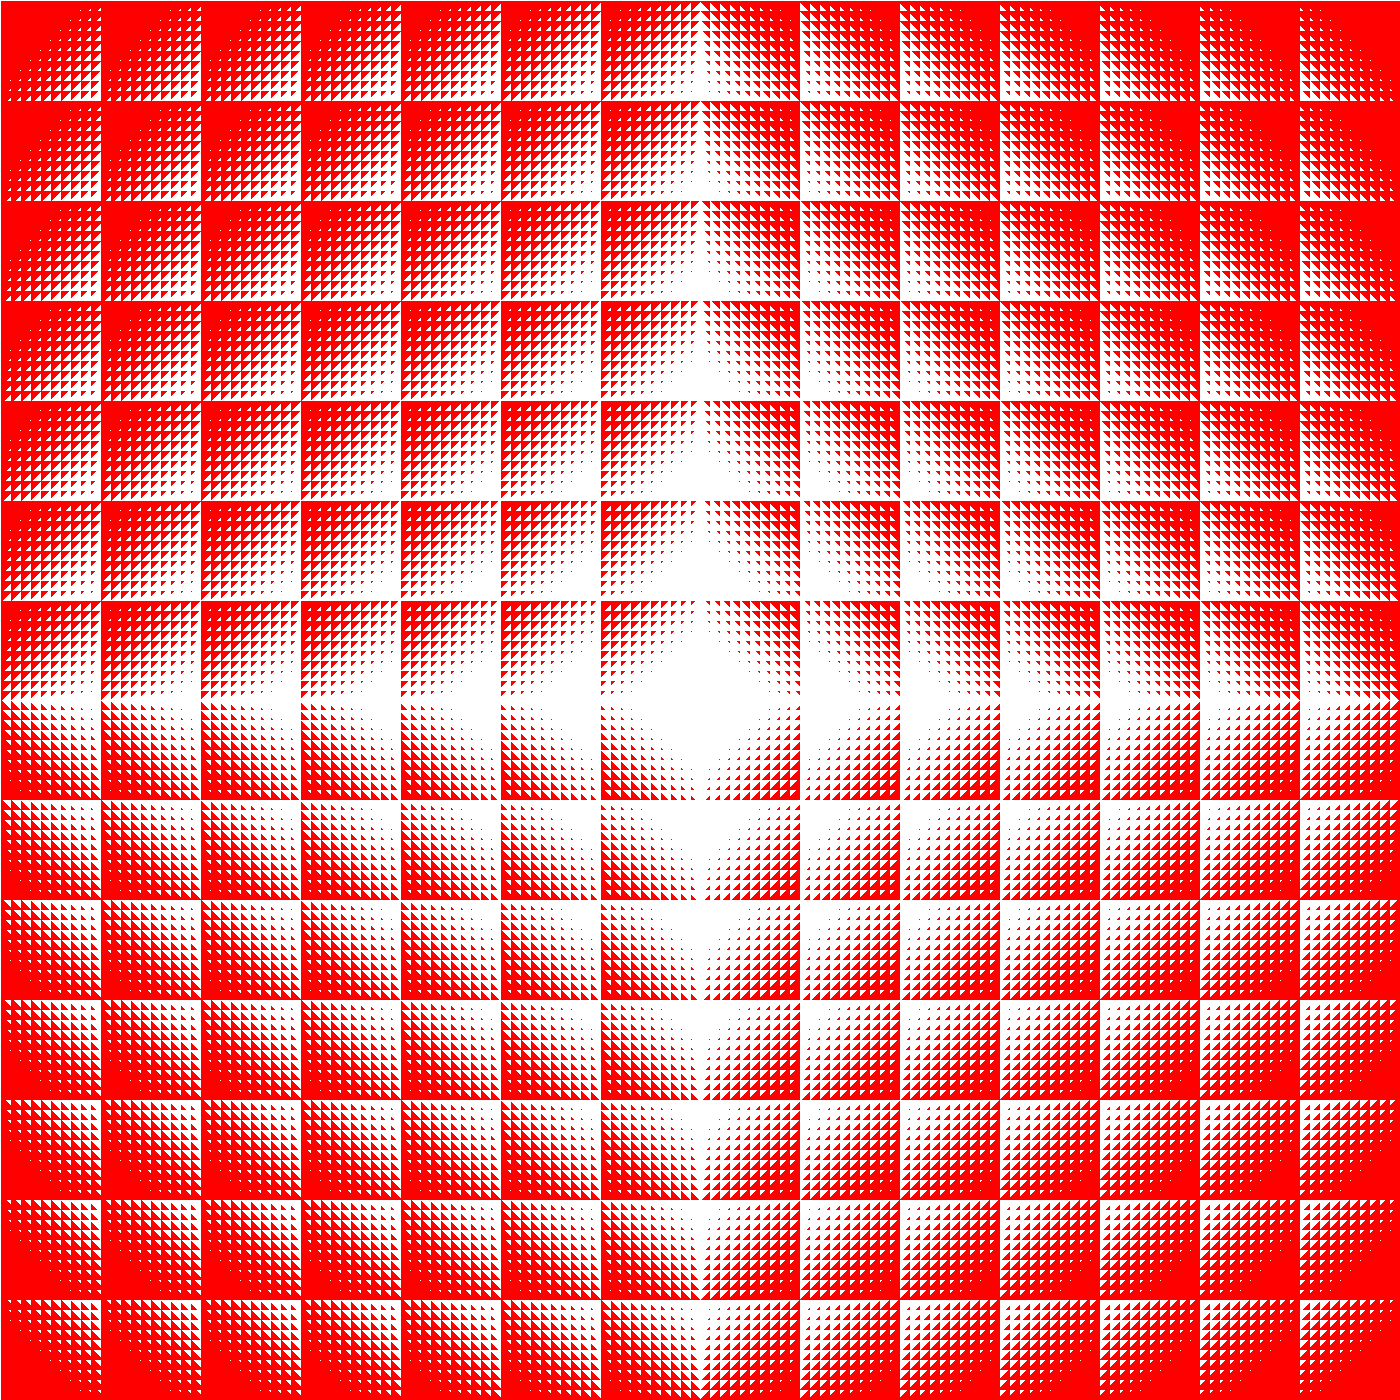
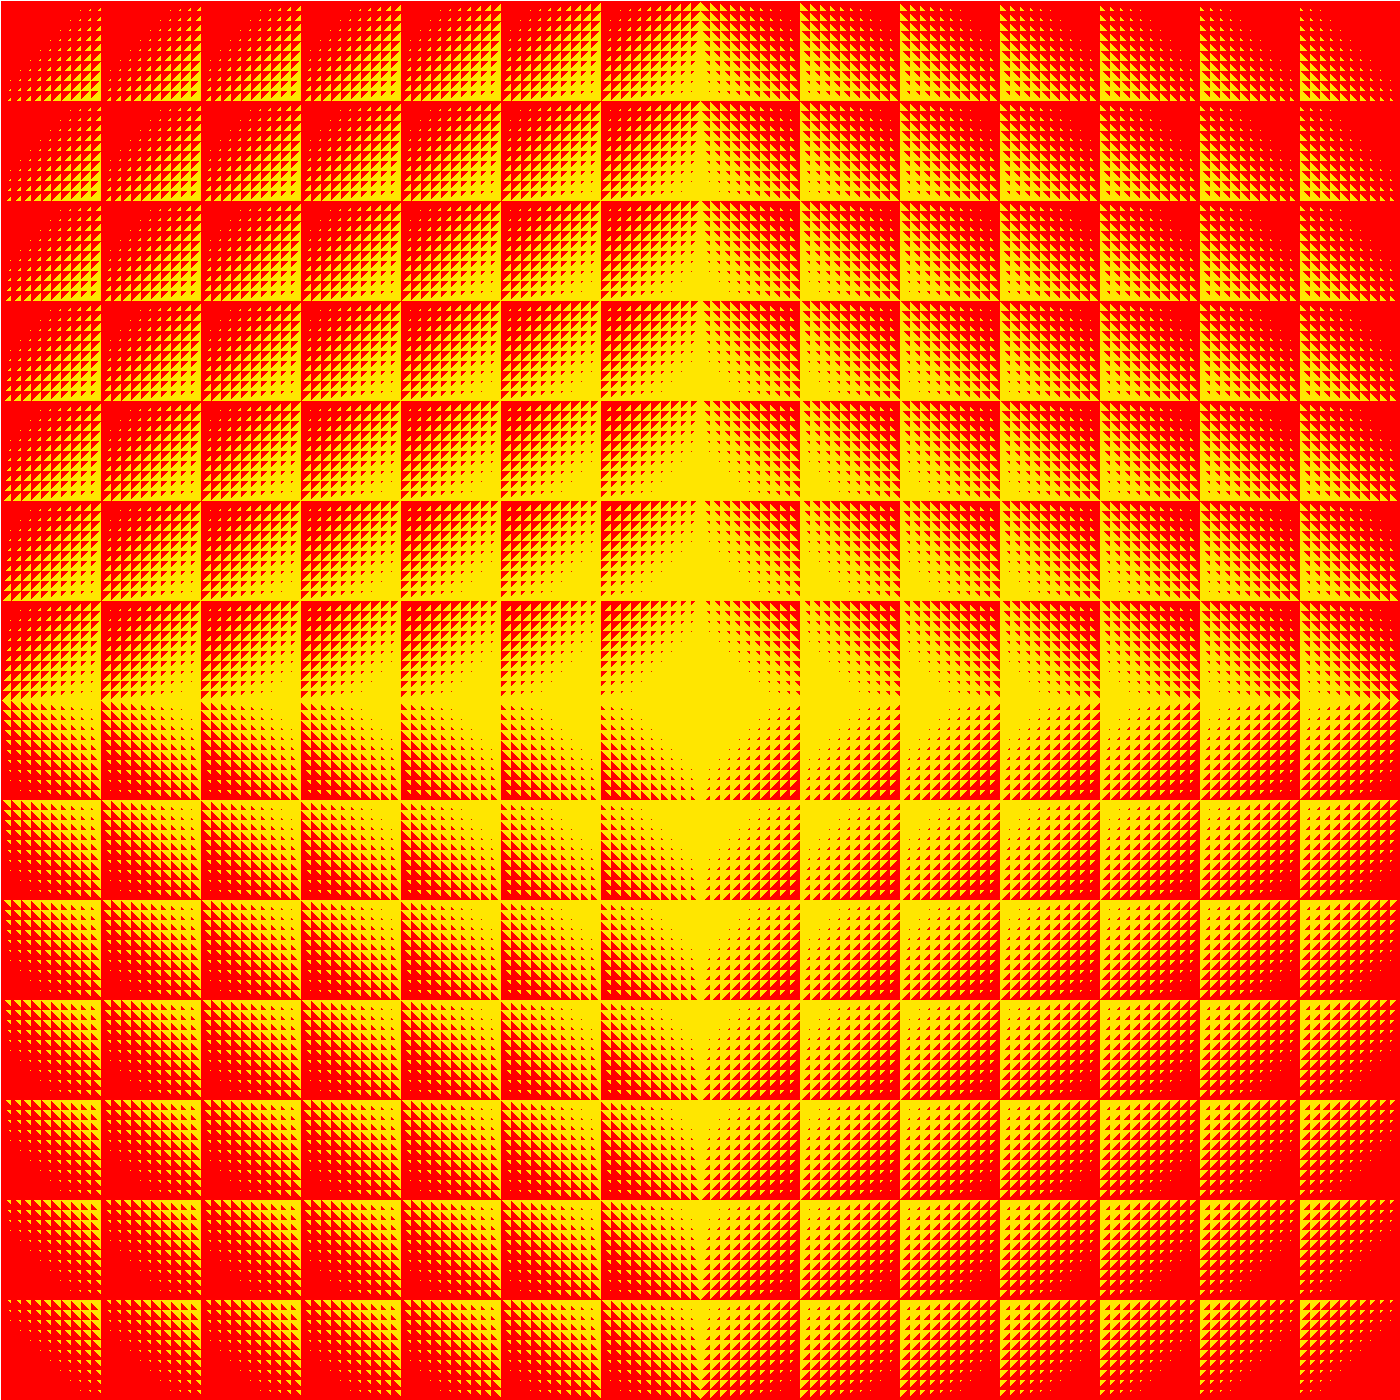
Changed image colours and the Readme

diff --git a/internal/pkg/mapland/mapland.go b/internal/pkg/mapland/mapland.go
@@ -106,8 +106,9 @@ func (m *MapLand) DrawImage(fname string) {
 	lowRight := image.Point{m.size * 2, m.size * 2}
 	img := image.NewRGBA(image.Rectangle{upLeft, lowRight})
 	mineColour := color.RGBA{0xff, 0x00, 0x00, 0xff}
-	clearColour := color.White
-	accessableColour := color.RGBA{0x1d, 0xd8, 0x80, 0xff}
+	clearColour := color.RGBA{0xff, 0xe6, 0x00, 0xff}
+	accessableColour := color.RGBA{0x00, 0xf6, 0xff, 0xff}
+
 	for x, c := range m.land {
 		for y, v := range c {
 			px := m.size - x

diff --git a/README.md b/README.md
@@ -4,6 +4,7 @@ This program calculates the coordinates that are visitable by a robot starting o
 horizontally or vertically one position at a time. This is in a world where every coodinate pair whose combined individual absolute digits adds up to a sum greater than 23 has a mine on it.
 
 ## To build
+
 go build -o robot.exe ./cmd/calmrobot/
 
 ## To run
@@ -25,19 +26,17 @@ Where X is a number. Sets a new value for the safe number other than the standar
 
 Prints a help text and exits
 
-
 ![Robot](robot.png)
 
 ## Improvements
 
-The code probably could be made to go faster. We use the symmetry in the 4 quarters to only calculate 1 quadrant and multiply the result by 4. We have to be careful to count the axes only 4 times and the origin only once. 
+The code probably could be made to go faster. We use the symmetry in the 4 quarters to only calculate 1 quadrant and multiply the result by 4. In multiplying We have to be careful to count a total of only 4 axes and one origin point, given that we need 2 axes and one origin in the model quadrant that we are using.
 
-The big O value is poor as the performance of the code degrades sharply as the safe number increments.
+The efficiency, or Big O value is poor as the performance of the code degrades sharply as the safe number increments.
 
-The lack of Unit tests is more of an issue. 
+The lack of Unit tests is more of an issue.
 
 There is no error checking for input conditions.
-The out of bounds errors will be caught by overflow and 
-I, otherwise would have to cause a Panic and terminate 
+The out of bounds errors will be caught by overflow and
+I, otherwise would have to cause a Panic and terminate
 at that point anyway.
-
